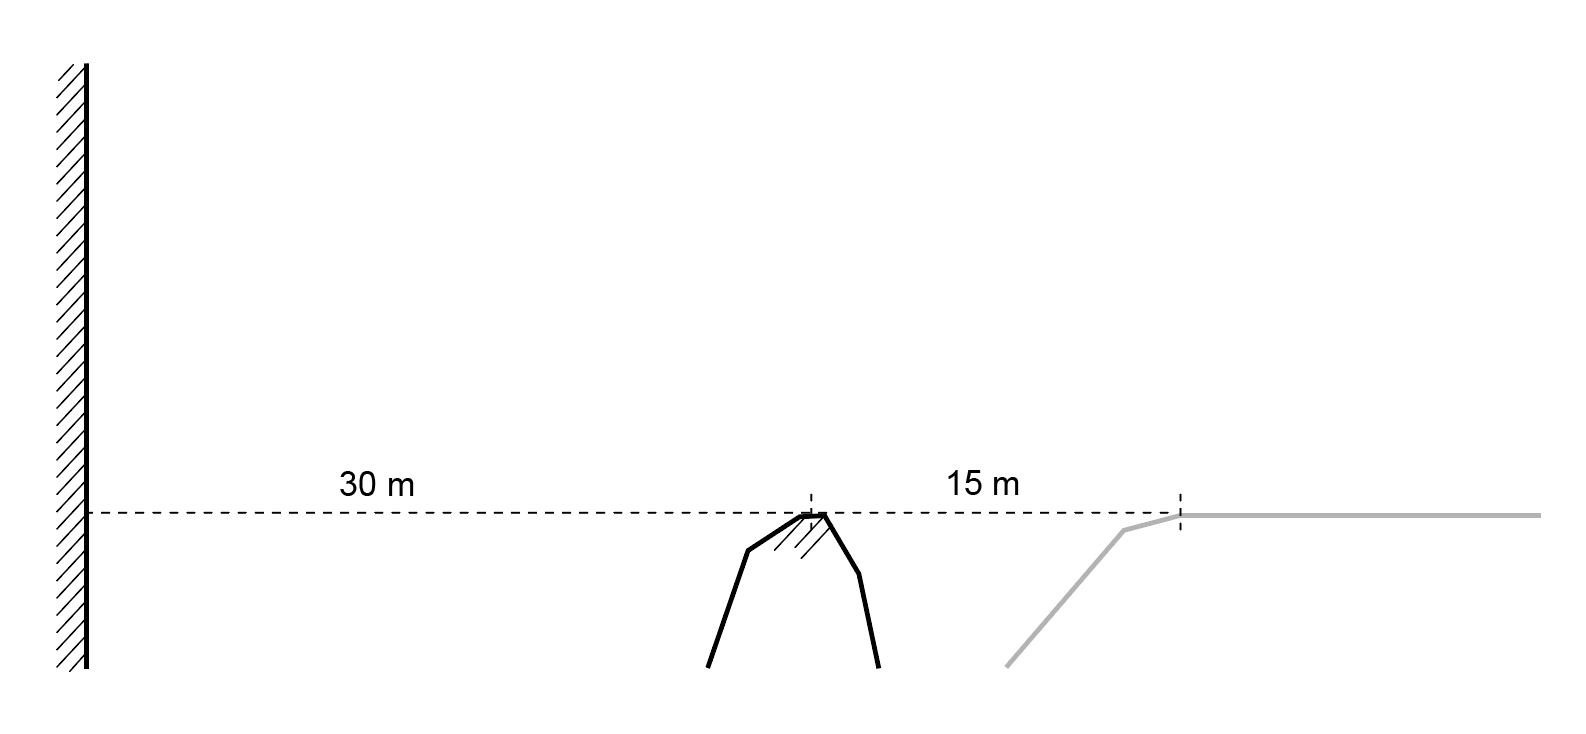
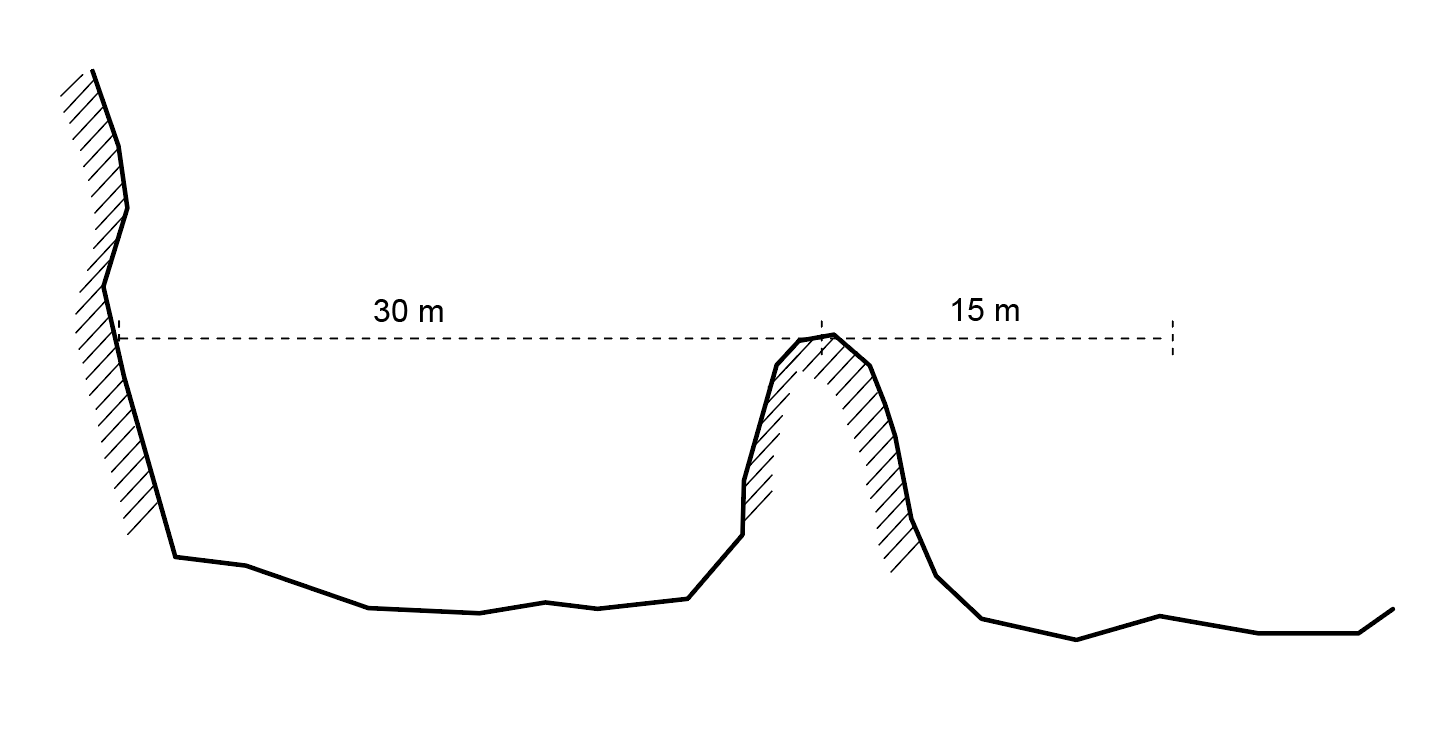
- publish exercise 4

diff --git a/course-material/iv.-algebraic-gs/iv-exercise.md b/course-material/iv.-algebraic-gs/iv-exercise.md
@@ -10,7 +10,7 @@ Complete the tasks below, and submit **by 9:00am on Friday, December 2nd one zip
 
 Please follow the file naming convention as shown in the [**Syllabus**](../../syllabus.md#submissions).
 
-### ****[**Submit here**](https://polybox.ethz.ch/index.php/s/xB0jt4XbfkHXWIk)**** (TODO)
+### ****[**Submit here**](https://polybox.ethz.ch/index.php/s/4Am1YGniSK1xRNL)**** 
 {% endhint %} 
 
 {% hint style="info" %}
@@ -33,13 +33,14 @@ In the first task, you will analyse and modify 3 trusses.
 
 Assume that: 
 * The total weight applied to the central portion of the deck is 50 kN. They are distributed equally: 10 kN at each loaded node.
-* All the trusses have a pin support (fixed in X and Y) in the left and a roller support (fixed Y) in the right.
+* All the trusses have a pin support in the left and a roller support in the right.
 * The position of the supports can be either on the upper chord or on the lower chord. 
 
-Here are the three truss(Fig-1-1): 
+Here are the three truss(Fig-1-2): 
 1. Truss bridge with N diagonals
 2. Truss bridge with V diagonals
 3. Truss bridge with K diagonals
+   
 ![Fig-1-2](../../.gitbook/assets/3_truss_bridges.png)
 
 You need to: 
@@ -50,13 +51,13 @@ You need to:
 
 
 
-# Task 2: Cantilever arch-cable structure under uniformly distributed load 
+# Task 2: Cantilever arch-cable structure 
 
 Here's a comparison between an arch and a cantilever arch-cable under 4 external loads. Remove the rightest member in the arch, follow its direction, and find the correct anchor point. 
 
 ![Fig-1-3](../../.gitbook/assets/cantilever_exp.png)
 
-In task 2, we will build a 15.0m cantilever arch-cable viewing platform on a cliff. 
+In task 2, we will build a 15.0m cantilever arch-cable viewing platform on a cliff. The cliff is vertical. 
 
 Assume that:
 * The total weight applied to the deck is 50 kN, assume that the deck is divided in 5 pieces such that the load of 10 kN should be applied at each loaded node.
@@ -68,38 +69,33 @@ The steps to construct the antilever arch-cable viewing platform are described a
 ![Fig-1-3](../../.gitbook/assets/cantilever_steps.png)
 
 1. Define two anchor points on the cliff and the direction of the reaction force. 
-2. Find the rightest point in the arch. 
-3. Form find the arch under self weight of the deck. 
+2. Find the support of the arch on the right side.
+3. Form find the arch under self weight of the deck. (Hint: tutorial part 3) 
 4. Transfer the load on the arch to the upper chord.
-5. Construct the arch-cable using the form-found arch. 
+5. Rebuild the entire the geometry and analyse it again in IGS to obtain the final force diagram. 
 
 Based on your form-found arch-cable structure, answer the following questions. 
-* Assume that the load on the structure is no longer uniform. Could you propose a modification so that the structure is stable under the following loads (Fig-1-4)? Hint: Topological modification is allowed. 
+* Assume that the load on the structure is no longer uniform. Could the arch-cable cantilever structure take non-uniformly distributed loads? If not, could you propose a modification so that the structure is stable under the following loads (Fig-1-4)? Hint: Topological modification is allowed. 
 
 ![Fig-1-4](../../.gitbook/assets/cantilever_unequal.png)
 
 * Assume that we want to achieve constant force in the lower chord. Is it possible to find a design solution considering the current support locations? If it's possible, compute the final results. If it's not possible, could you propose a solution so that constant force can be achieved? 
-Hint: changing the support locations and cantilevering span is allowed.
+Hint: changing the support locations is allowed.
 
 
 # Task 3: Design your bridge
 
-In task 3, we will build a bridge connecting the left cliff and the right island(Fig-1-4). The distance between the left cliff and the middle island is 30 meters. The distance between the middle island and the right island is 15 meters. 
+In task 3, we will build a bridge connecting the left cliff and the middle island, and a cantilever viewing platform(Fig-1-4). The distance between the left cliff and the middle island is 30 meters. The cantilever span is 15 meters. 
 
 
 ![Fig-1-4](../../.gitbook/assets/bridge_design.png)
 
 Assume that:
-* The weight of the deck is 5 kN/m. The weight should be equally distributed along the span. However, you are free to divide the deck in as many slices as you want.
-
-* Due to the soil property, the bridge cannot be anchored on the right island. You are allowed to anchor anywhere on the left cliff, and on the peak of the middle island. The deck that is supported by the middle island and hangs over the right island can be longer than 15 m. 
-
+* The weight of the deck is 5 kN/m. The weight should be uniformly distributed along the span. However, you are free to divide the deck as many slices as you want.
+* You are allowed to anchor anywhere on the left cliff and the middle island. 
 * In your design the deck does not need to remain horizontal.
-  
-* Be creative :) 
 
-Propose two bridge designs. One should be made of trusses, and the other one of arch-cable. 
-
+Propose two bridge designs. In the first design, the span and the cantilever are two independent structure. One of them should be an arch-cable and the other one should be a truss. In the second design, the bridge and the viewing platform have to be a single structure. Solve it using a combination of trusses and arch-cable, or only arch-cable. 
 
 ## Deliverables
 

diff --git a/SUMMARY.md b/SUMMARY.md
@@ -34,6 +34,7 @@
   * [Lecture](course-material/iv.-algebraic-gs/tutorial-4/intro-ags.md)
   * [Workflow + UI](course-material/tutorial-4/workflow-+-ui.md)
   * [Tutorial](course-material/iv.-algebraic-gs/iv.-tutorial.md)
+  * [Exercise](course-material/iv.-algebraic-gs/iv-exercise.md)
 * [V. RhinoVAULT 2](course-material/v.-rhinovault-2/README.md)
 
 ## appendix
